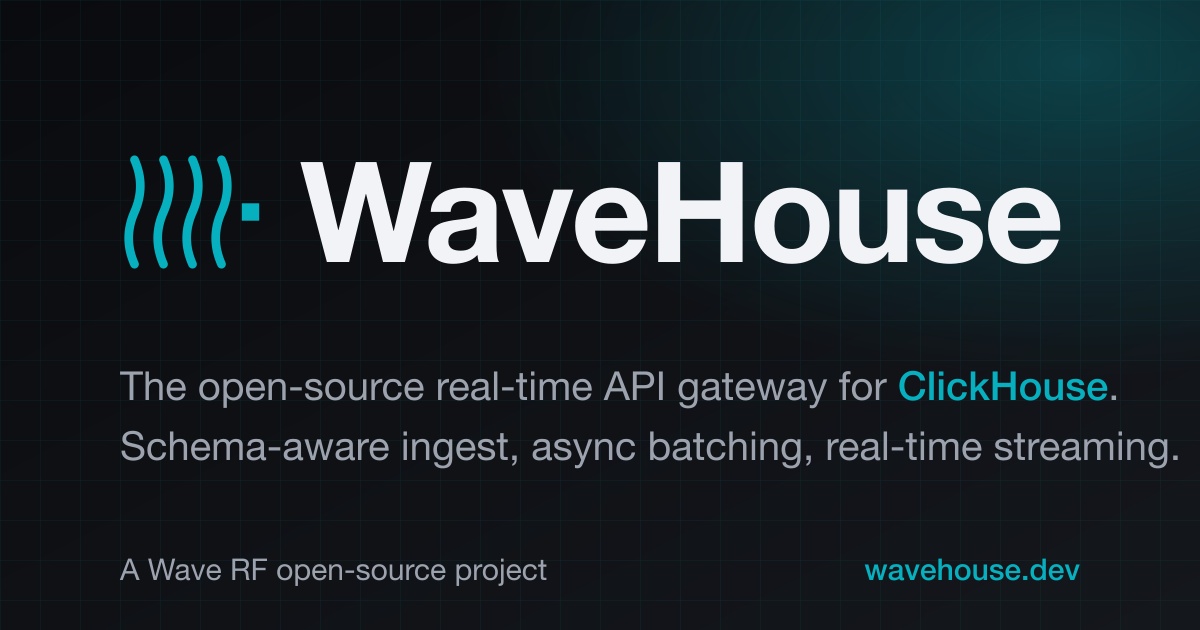
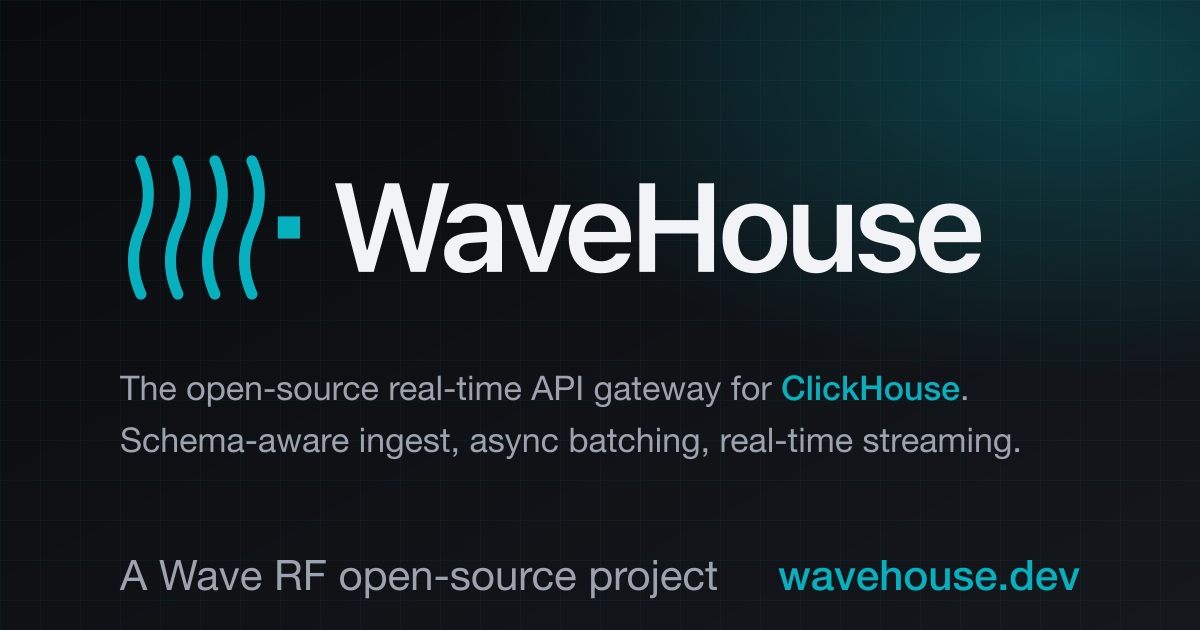
fix(docs): wire canonical lockup.svg into OG + extra tagline padding + larger footer
Three asks on top of ef835d1:

1. Use the off-repo canonical lockup design as the source for the
   mark+wordmark unit on the OG card, instead of laying out the mark
   and the wordmark independently inside og.template.svg.

   New file `scripts/branding/lockup.svg` brings the design across
   from `~/Code/work/Wave-RF/WaveHouse-Logos/final-chosen/lockup.svg`
   — a 480×100 SVG with the four waves + cursor square + "WaveHouse"
   text as a single designed unit. Mark/wordmark heights, baselines,
   gap, and Inter font metrics are all designed-in, so the OG just
   picks one x/y/scale and the proportions come out right.

   The canonical lockup is intentionally single-color (currentColor
   everywhere), which would have made the OG read as one cyan bar
   instead of "mark + headline." Worked around by giving the lockup
   two color tokens — `currentColor` for the mark (stroke + cursor
   fill) and a new `__WM_FILL__` placeholder for the wordmark text —
   and substituting both at OG-render time via a new
   `lockup_with_colors()` helper in generate.sh. New
   `COLOR_OG_WM='#F1F3F7'` constant alongside `COLOR_OG`. Single-
   color renders (whenever we add lockup-on-light / lockup-on-dark
   PNG outputs in the future) just pass the same hex for both args.

2. More right-edge breathing room on the tagline.

   Font 40 → 34. Second line ("Schema-aware ingest, async batching,
   real-time streaming.") was visually crowding the right edge of
[…]

diff --git a/CHANGELOG.md b/CHANGELOG.md
@@ -39,7 +39,7 @@ and this project adheres to [Semantic Versioning](https://semver.org/spec/v2.0.0
 - **Astro / Starlight documentation site at `wavehouse.dev`** (`docs/`, `Makefile`, `.github/dependabot.yml`, `.github/workflows/ci.yml`, `.gitignore`, `.vscode/launch.json`): full content + tooling for the public docs (Getting Started, Why WaveHouse, Architecture, API Reference, TypeScript SDK, Configuration, Deployment, Development). Build-time mermaid via `rehype-mermaid` (inline-svg strategy, no client-side JS), LaTeX via `remark-math` + `rehype-katex`, image zoom via `starlight-image-zoom`, expressiveCode with github dark/light + `env`/`dns` Shiki language aliases. PostHog frontend telemetry (key is public by design — embedded in every visitor's browser). `editLink` pointed at `main`; `lastUpdated` on. Sidebar lives in `docs/src/config/sidebar.ts` as the single source of truth, consumed by both Starlight rendering and the LLM-friendly outputs below. Cloudflare Workers + Static Assets deployment via `docs/wrangler.jsonc` (no auto-deploy yet — wired up when the GH Actions workflow lands separately). Make targets stay minimal: `dev-docs` (Astro dev server on :4321), `build-docs`, `preview-docs` — the last serves the production build through `wrangler dev`, so the Cloudflare Worker's content negotiation (`Accept: text/markdown` / LLM-bot User-Agent → `.md` twin) is exercised end-to-end the same way it will be in production.
 - **Per-page `.md` twin + `llms.txt` family via `starlight-llm-tools`** (`docs/astro.config.mjs`, `docs/worker/index.ts`, `docs/wrangler.jsonc`): every doc is also served as raw markdown at `<path>.md` with a navigation header (Section / Subpages / Related / HTML version pointers), plus three concatenated views — `/llms.txt` manifest, `/llms-full.txt` (every page, sidebar-ordered), `/llms-small.txt` (overview pages only). Page-title slot gains a **Copy Markdown** button and **Open with AI** dropdown (Claude / ChatGPT / Cursor). Content negotiation is handled by a Cloudflare Worker that re-exports the `cloudflare-md-router` package's default handler in one line — `Accept: text/markdown` or known LLM-bot User-Agent (GPTBot, ClaudeBot, PerplexityBot, Applebot-Extended, etc.) gets the `.md` twin transparently, with a fall-through to the HTML response when the twin doesn't exist.
 - **Two extracted plugin packages, MIT-licensed**: [`github.com/Wave-RF/cloudflare-md-router`](https://github.com/Wave-RF/cloudflare-md-router) (Workers handler + `createMdRouter()` factory + extensible bot-UA regex; consumed in `docs/worker/index.ts` as a one-line re-export) and [`github.com/Wave-RF/starlight-llm-tools`](https://github.com/Wave-RF/starlight-llm-tools) (Starlight plugin that auto-injects the four routes, the two components, and the `PageTitle` override; optionally calls into `starlight-glossary/transform` when present). Both pinned via `github:Wave-RF/...` in `docs/package.json`; lockfile pins the resolved commit SHAs. Pre-npm-publish state — switch to normal version specifiers when the packages land on npm.
-- **Custom WaveHouse mark + favicon / OG card / Starlight nav logo / README header, fed by a single-source `make branding` pipeline** (`scripts/branding/{mark.svg,og.template.svg,generate.sh}`, `Makefile`, `docs/astro.config.mjs`, `docs/public/{favicon.svg,favicon.ico,apple-touch-icon.png,og.png}`, `docs/src/assets/branding/wavehouse-mark-{light,dark}.svg`, `README.md`): replaces the default Astro sparkle favicon and the 🏖 emoji in the README header with the **clickwave** mark — four vertical sine-curve columns + a filled cursor square on the right, on a 100-unit viewBox. The columns echo ClickHouse's column-store grammar; the cursor square reads as both the "click" in ClickHouse and a "live cell" indicator for the streaming/real-time story. Brand colors live as design tokens: `#086D77` deep teal on light backgrounds, `#06B0BF` electric blue (Wave RF parent brand) on dark — both also exposed in `docs/src/styles/global.css` as `--wh-accent` / `--wh-accent-hi`. `scripts/branding/mark.svg` is the single source of truth (one multi-element SVG using `stroke="currentColor"` for the wave columns and `fill="currentColor"` for the cursor square); `make branding` extracts its inner content + viewBox and emits six derived artifacts via `rsvg-convert` + ImageMagick: a CSS-swap browser favicon (`:root{color}` block flips via `prefers-color-scheme:dark` and the inner `currentColor` attributes inherit, covering both stroke and fill in one declaration), a multi-resolution legacy `favicon.ico` (16/32/48), a 180×180 iOS home-screen tile (`apple-touch-icon.png`; electric-blue mark on near-black `#0A0B0E` background, scale rebased to `1.24` for the new 100-unit viewBox, solid because transparent apple-touch icons render a white halo on iOS), a 1200×630 OG card rendered from `og.template.svg` (gradient background + faint accent grid + corner radial glow + clickwave mark and `WaveHouse` wordmark sharing the top half + three-line tagline with `ClickHouse` highlighted in the accent color + footer row pairing `A Wave RF open-source project` (left) with `wavehouse.dev` (right), mark spliced into a `__MARK_GROUP__` placeholder via `sed`, scale `1.6`), and the two hardcoded-color Starlight nav SVGs that Starlight's `logo: { light, dark }` config picks between (CSS media queries inside an SVG don't fire when loaded via `<img>`, so a single CSS-swap SVG won't work in the nav). Wave-column centers + cursor square shifted left by 4 units inside the viewBox so left and right padding match — without the shift the cursor square sits flush against the right edge while the leftmost wave has ~7 units of breathing room. `make branding` is **not** wired into `build-docs` or any CI workflow — derived artifacts are committed so contributors don't need `librsvg` / `imagemagick` on their PATH to build docs, only someone iterating on the mark itself does. `astro.config.mjs` gains the Starlight `logo:` block and the `<link rel="apple-touch-icon">` head tag; the legacy `favicon.ico` still ships in `public/` so older clients (IE/Edge, some RSS readers) that can't load SVG favicons auto-probe `/favicon.ico` from the site root by convention — no explicit `<link>` tag needed. README H1 uses a `<picture>` element with `<source media="(prefers-color-scheme: dark)">` so GitHub renders the right variant per visitor theme. Future edits: tweak `mark.svg` (or `COLOR_*` in `generate.sh`, or the OG composition in `og.template.svg`), run `make branding`, commit the diff.
+- **Custom WaveHouse mark + favicon / OG card / Starlight nav logo / README header, fed by a single-source `make branding` pipeline** (`scripts/branding/{mark.svg,lockup.svg,og.template.svg,generate.sh}`, `Makefile`, `docs/astro.config.mjs`, `docs/public/{favicon.svg,favicon.ico,apple-touch-icon.png,og.png}`, `docs/src/assets/branding/wavehouse-mark-{light,dark}.svg`, `README.md`): replaces the default Astro sparkle favicon and the 🏖 emoji in the README header with the **clickwave** mark — four vertical sine-curve columns + a filled cursor square on the right, on a 100-unit viewBox. The columns echo ClickHouse's column-store grammar; the cursor square reads as both the "click" in ClickHouse and a "live cell" indicator for the streaming/real-time story. Brand colors live as design tokens: `#086D77` deep teal on light backgrounds, `#06B0BF` electric blue (Wave RF parent brand) on dark — both also exposed in `docs/src/styles/global.css` as `--wh-accent` / `--wh-accent-hi`. `scripts/branding/mark.svg` is the single source of truth (one multi-element SVG using `stroke="currentColor"` for the wave columns and `fill="currentColor"` for the cursor square); `make branding` extracts its inner content + viewBox and emits six derived artifacts via `rsvg-convert` + ImageMagick: a CSS-swap browser favicon (`:root{color}` block flips via `prefers-color-scheme:dark` and the inner `currentColor` attributes inherit, covering both stroke and fill in one declaration), a multi-resolution legacy `favicon.ico` (16/32/48), a 180×180 iOS home-screen tile (`apple-touch-icon.png`; electric-blue mark on near-black `#0A0B0E` background, scale rebased to `1.24` for the new 100-unit viewBox, solid because transparent apple-touch icons render a white halo on iOS), a 1200×630 OG card rendered from `og.template.svg` (gradient background + faint accent grid + corner radial glow + canonical lockup (mark + "WaveHouse" wordmark as a designed 480×100 unit from `lockup.svg`, with the mark in accent cyan and the wordmark in off-white via a two-color substitution so the visual hierarchy reads as "logo + headline" instead of one monochrome bar) + two-line tagline with `ClickHouse` highlighted in the accent color + footer row pairing `A Wave RF open-source project` (left) with `wavehouse.dev` (right), lockup spliced into a `__LOCKUP_GROUP__` placeholder via `sed`), and the two hardcoded-color Starlight nav SVGs that Starlight's `logo: { light, dark }` config picks between (CSS media queries inside an SVG don't fire when loaded via `<img>`, so a single CSS-swap SVG won't work in the nav). Wave-column centers + cursor square shifted left by 4 units inside the viewBox so left and right padding match — without the shift the cursor square sits flush against the right edge while the leftmost wave has ~7 units of breathing room. `make branding` is **not** wired into `build-docs` or any CI workflow — derived artifacts are committed so contributors don't need `librsvg` / `imagemagick` on their PATH to build docs, only someone iterating on the mark itself does. `astro.config.mjs` gains the Starlight `logo:` block and the `<link rel="apple-touch-icon">` head tag; the legacy `favicon.ico` still ships in `public/` so older clients (IE/Edge, some RSS readers) that can't load SVG favicons auto-probe `/favicon.ico` from the site root by convention — no explicit `<link>` tag needed. README H1 uses a `<picture>` element with `<source media="(prefers-color-scheme: dark)">` so GitHub renders the right variant per visitor theme. Future edits: tweak `mark.svg` (or `COLOR_*` in `generate.sh`, or the OG composition in `og.template.svg`), run `make branding`, commit the diff.
 - **Documentation site design-system rebuild with custom Hero / Header / SiteTitle / Footer components** (`docs/src/styles/global.css`, `docs/src/components/{Hero,Footer,SiteTitle,Head}.astro`, `docs/src/content/docs/index.mdx`, `docs/astro.config.mjs`, `docs/package.json`, `Makefile`, `docs/scripts/screenshot.mjs`): replaces the previous `custom.css` baseline with a full Tailwind v4 token system in `global.css` — accent / ink / surface / border tokens for both light and dark themes, plus Starlight `--sl-color-*` overrides so the existing Starlight chrome picks up the WaveHouse palette without per-page overrides. New `Hero.astro` powers the splash landing page (`index.mdx`) with an animated terminal preview, stats grid, and CTA actions; `Footer.astro` adds a brand-aware site-wide footer with Docs / Operations / Project link columns and a copyright row; `SiteTitle.astro` replaces Starlight's default header title with the clickwave mark + wordmark and a small hover transform; `Head.astro` adds theme-color meta tags for both color schemes. New runtime deps: `@astrojs/starlight-tailwind`, `@tailwindcss/vite`, `tailwindcss@4`, `@fontsource-variable/inter`, `@fontsource-variable/jetbrains-mono`. `docs/scripts/screenshot.mjs` is a new Playwright-based visual-regression script (`pnpm exec node scripts/screenshot.mjs` from `docs/`, with `make dev-docs` running in another shell on :4321) that captures landing / getting-started / API / architecture pages in both themes at desktop and mobile widths, used for design iteration and golden-image diffing. `make install-docs` also runs `pnpm exec playwright install chromium` so `rehype-mermaid`'s SSR diagram pipeline (used by `architecture.md` / `why-wavehouse.md`) and `starlight-links-validator` can run in CI without an out-of-band Chromium install step.
 - **In-process OTLP gRPC test receiver + integration tests for the OTel pipeline** (`internal/testutil/otlp.go`, `tests/integration/otel_test.go`): `testutil.NewFakeOTLP(t)` binds a gRPC server on `127.0.0.1:0`, registers the trace/metric/log Export services, and captures every received payload — exposing `SpanCount()`, `MetricCount()`, `LogCount()`, and `LogCountAtLevel()` for assertions. Test cases verify trace sampling (1.0 → all, 0.5 → ~half within binomial tolerance, 0.0 → none), the WARN+ERROR floor (logs at `sample_rate=0.0` still export 100% of WARN/ERROR), per-signal gating (traces-only, logs-only), and the unreachable-endpoint invariant (InitProvider succeeds on lazy gRPC dial, emits don't block on failed export). Avoids spinning a full SigNoz stack in CI — the receiver is ~150 LOC and the whole suite runs in <5s.
 - **OpenTelemetry pipeline is now opt-in via `[otel]` config block with per-signal gates and configurable sampling** (`internal/config/config.go`, `cmd/wavehouse/main.go`, `internal/observability/provider.go`, `internal/observability/logger.go`, `config.yaml`, `docs/configuration.md`, `docs/deployment.md`): `otel.enabled` (`WH_OTEL_ENABLED`, default `false`) is the master switch, and `otel.addr` (`WH_OTEL_ADDR`, default `127.0.0.1:4317`) points at the OTLP gRPC collector. Each signal is then individually gated: `otel.traces.{enabled,sample_rate}` (head-based, default `1.0` — matches the OpenTelemetry SDK default), `otel.metrics.enabled` (no sampling — pre-aggregated), `otel.logs.{enabled,sample_rate}` (DEBUG/INFO at default `1.0` — `WARN`/`ERROR` always export at 100% as a non-configurable safety floor). All sampling knobs apply only to the OTLP push path; stdout always emits 100% of records (scraping-style pipelines like Promtail/Alloy → Loki own their own ingest policy). All sample rates are validated to `[0.0, 1.0]` at config load. Stdout logging is always active (the logger fans out to both stdout and OTLP), so logs never disappear regardless of collector state. gRPC exporters are lazy, so an unreachable collector does not block startup — startup was previously fatal on OTel init failure, now it is not. `WH_LOG_LEVEL` (`DEBUG`/`INFO`/`WARN`/`ERROR`, case-insensitive) now drives the slog `LevelVar` for both stdout and the OTLP log exporter. `provider.go` adds the `otlploggrpc` log exporter alongside the existing trace/metric exporters and registers the global OTel logger provider. `InitProvider` now takes a `ProviderConfig` struct AND returns a `(shutdown, promHandler http.Handler, err)` triple (breaking signature change within the internal package); `NewLogger` gains a `otlpSampleRate float64` parameter.
